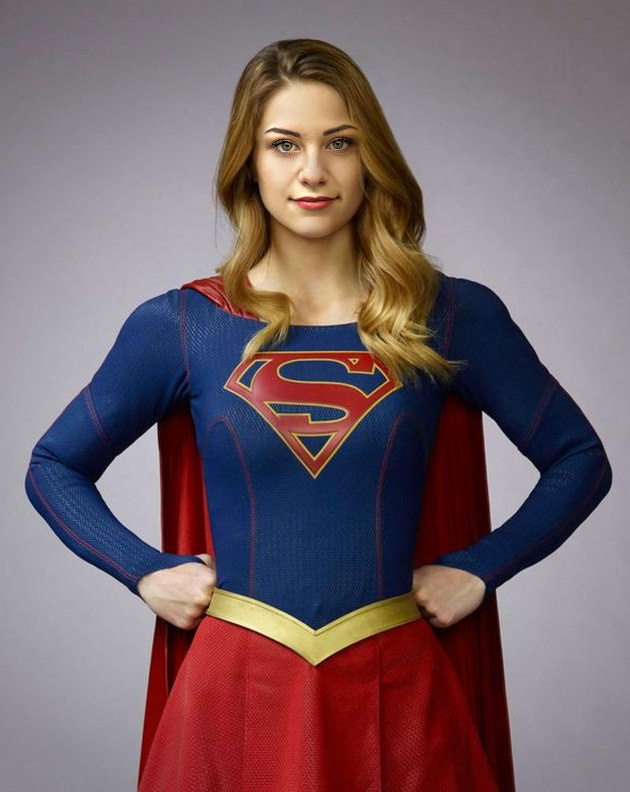
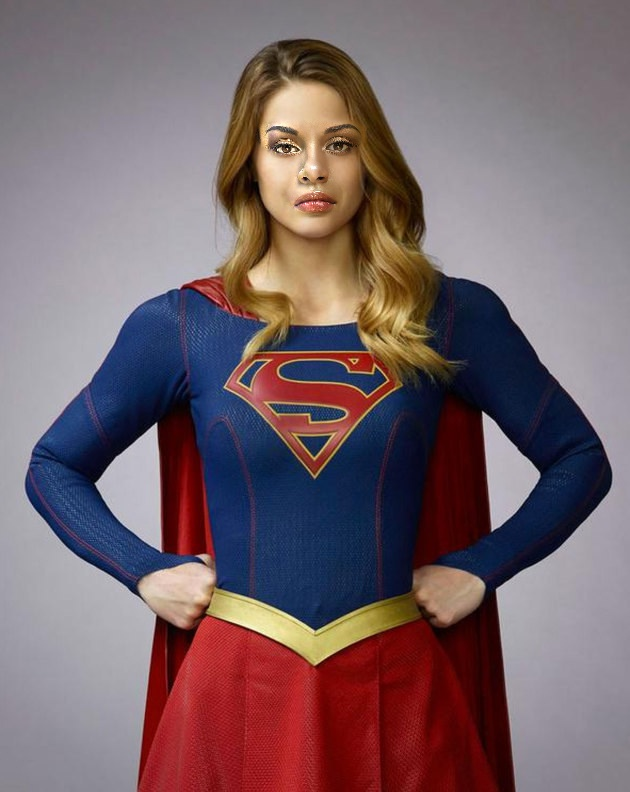
Trying to make it a service

Changed region(s): [[0.3921, 0.1515, 0.573, 0.2727]]

diff --git a/faceswap.py b/faceswap.py
@@ -12,7 +12,7 @@ from `<head image>` replaced with the facial features from `<face image>`.
 import cv2
 import dlib
 import numpy
-
+import
 import sys
 
 PREDICTOR_PATH = "shape_predictor_68_face_landmarks.dat"
@@ -41,7 +41,8 @@ OVERLAY_POINTS = [
 
 # Amount of blur to use during colour correction, as a fraction of the
 # pupillary distance.
-COLOUR_CORRECT_BLUR_FRAC = 0.6
+COLOUR_CORRECT_BLUR_FRAC = 0.5
+CONSTANT_FOR_MASK = 1.0
 
 detector = dlib.get_frontal_face_detector()
 predictor = dlib.shape_predictor(PREDICTOR_PATH)
@@ -162,20 +163,22 @@ def correct_colours(im1, im2, landmarks1):
     return (im2.astype(numpy.float64) * im1_blur.astype(numpy.float64) /
                                                 im2_blur.astype(numpy.float64))
 
-im1, landmarks1 = read_im_and_landmarks(sys.argv[1])
-im2, landmarks2 = read_im_and_landmarks(sys.argv[2])
+def faceswap(input_image, base, name_employee):
+    im1, landmarks1 = read_im_and_landmarks(input_image)
+    im2, landmarks2 = read_im_and_landmarks(base)
 
-M = transformation_from_points(landmarks1[ALIGN_POINTS],
-                               landmarks2[ALIGN_POINTS])
+    M = transformation_from_points(landmarks1[ALIGN_POINTS],
+                                landmarks2[ALIGN_POINTS])
 
-mask = get_face_mask(im2, landmarks2)
-warped_mask = warp_im(mask, M, im1.shape)
-combined_mask = numpy.max([get_face_mask(im1, landmarks1), warped_mask],
-                          axis=0)
+    mask = get_face_mask(im2, landmarks2)
+    warped_mask = warp_im(mask, M, im1.shape)
+    combined_mask = numpy.max([get_face_mask(im1, landmarks1), warped_mask],
+                            axis=0)
 
-warped_im2 = warp_im(im2, M, im1.shape)
-warped_corrected_im2 = correct_colours(im1, warped_im2, landmarks1)
+    warped_im2 = warp_im(im2, M, im1.shape)
+    warped_corrected_im2 = correct_colours(im1, warped_im2, landmarks1)
 
-output_im = im1 * (1.0 - combined_mask) + warped_corrected_im2 * combined_mask
-
-cv2.imwrite('output.jpg', output_im)
+    output_im = im1 * (CONSTANT_FOR_MASK - combined_mask) + warped_corrected_im2 * combined_mask
+    file_name = name_employee + '.jpg'
+    cv2.imwrite(file_name, output_im)
+    return(file_name)

diff --git a/main.py b/main.py
@@ -1,0 +1,16 @@
+import sys
+import flask
+from flask import send_file
+from faceswap import faceswap
+
+# faceswap(sys.argv[1], sys.argv[2])
+
+@app.route("/swap", methods=['POST'])
+def my_webservice():
+    name = request.form['employee_name']
+    file = request.files['image']
+    #
+    name_of_output = faceswap(file, "head.jpg", name)
+    return url_for('static', filename=name_of_output)
+
+app.run(host="0.0.0.0", port=5000)
